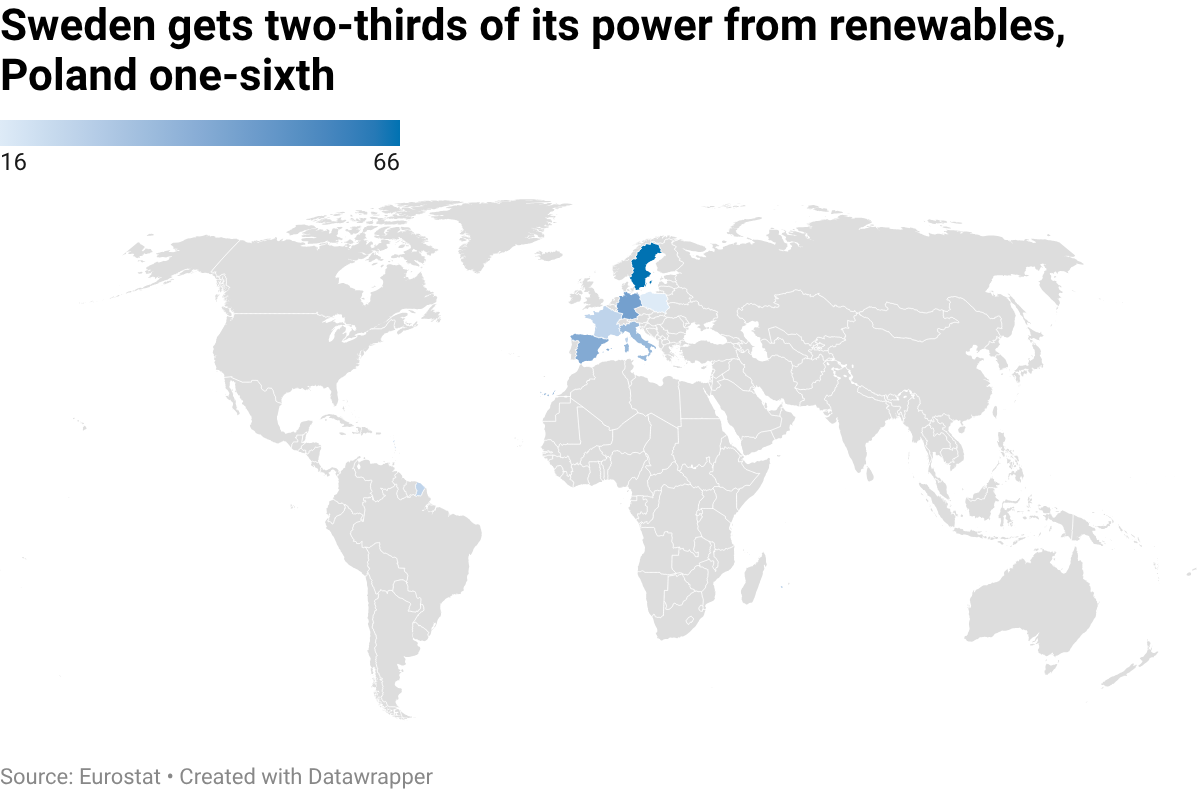
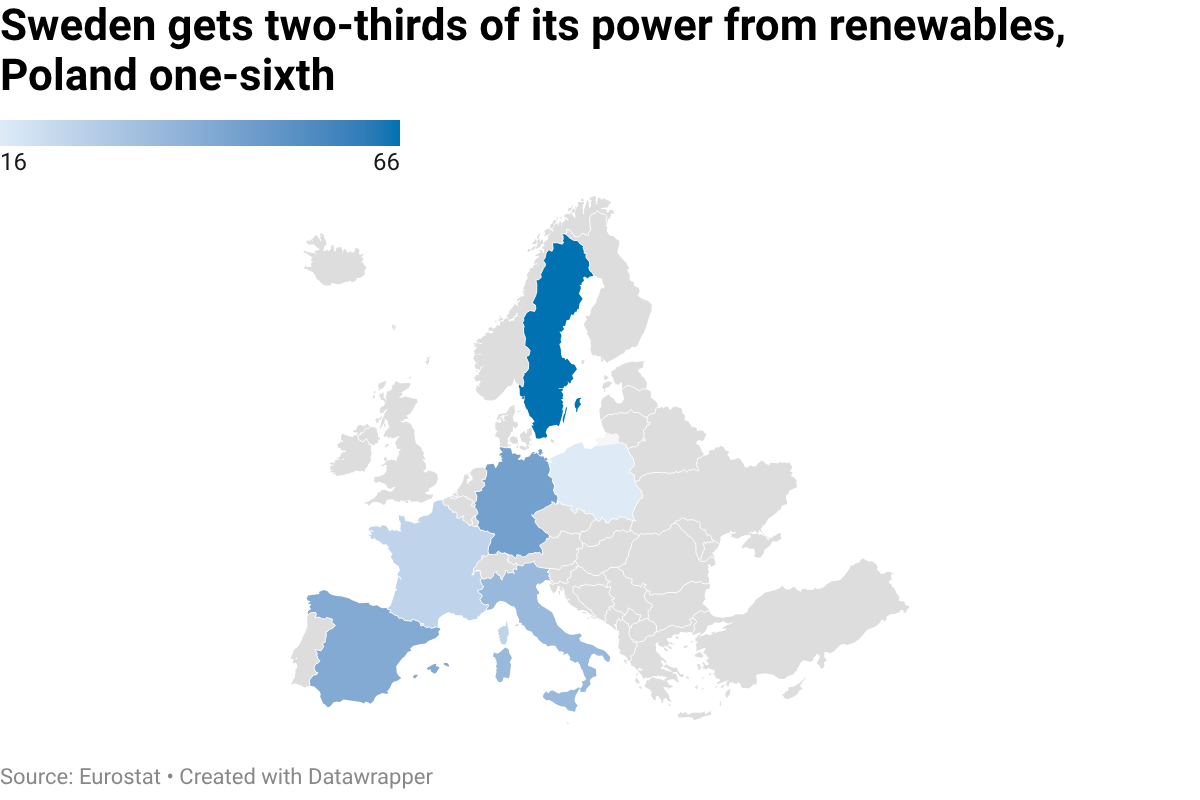
fix(map-dw): basemap must fit data extent — EU case on europe basemap (re-verified at the render)

Changed region(s): [[0.0925, 0.25, 0.925, 0.9062], [0.925, 0.8125, 0.9558, 0.8438], [0.8325, 0.5625, 0.8633, 0.5938]]

diff --git a/skills/map-dw/output-proof/e2e-proof.md b/skills/map-dw/output-proof/e2e-proof.md
@@ -3,15 +3,17 @@
 Produced via `produceMap` (which reuses the dw-chart `datawrapper.ts` client) from the generic
 `eval/cases/eu-renewables.json` case. **Left published for human review — do not delete.**
 
-- **publicUrl:** https://datawrapper.dwcdn.net/L2Uko/1/
-- **chartId:** `L2Uko`
+- **publicUrl:** https://datawrapper.dwcdn.net/vZRmO/1/
+- **chartId:** `vZRmO`
 - **PNG:** `eu-renewables.png` (this folder) — exported from the live chart.
 
 ## What the exported PNG shows (the real gate — looked at, not just asserted)
 
+- **Basemap `europe-sovereign-states`** (fixed from `world-2019`): the 6 EU countries FILL the frame
+  instead of being a tiny cluster lost on a world map (basemap-fit rule, now in SKILL.md).
 - All 6 countries coloured by value: Sweden 66 (darkest), Germany 46, Spain 42, Italy 36,
   France 25 (light), Poland 16 (lightest). **Data is bound** via `axes.keys=code` →
-  `map-key-attr=DW_STATE_CODE` (ISO-3).
+  `map-key-attr=ISO_3_SOV` (the europe basemap's ISO-3 join key).
 - A proper **light→`#0072B2` blue sequential gradient** on regions and legend (16→66).
   **NOT black** — the bug the spike resolved.
 - Insight title, Eurostat source, and `aria-description` (alt = the insight) all present.

diff --git a/skills/map-dw/SKILL.md b/skills/map-dw/SKILL.md
@@ -50,6 +50,8 @@ and NEVER a `stops` string. (Also: SVG/PDF export is paid → the owned fallback
 3. **Drive** the API: create → setData (CSV) → patch → publish → export PNG.
 4. **Return** the embed iframe + the owned PNG path.
 
+**Basemap must fit the data's geographic extent.** EU countries → `europe-sovereign-states`; US states → `us-states`; one country's regions → that country's basemap; only use `world-2019` for genuinely global data. A regional story on the world basemap is a *valid* spec but a *poor* map — a tiny coloured cluster lost in empty grey. Pick the smallest basemap that contains all the data's regions. (Caught only by looking at the render, never by `validateMapSpec`.)
+
 ## Quick start
 
 1. Build a `MapSpec` (see `eval/cases/eu-renewables.json`). Pick a basemap from `GET /v3/basemaps`
